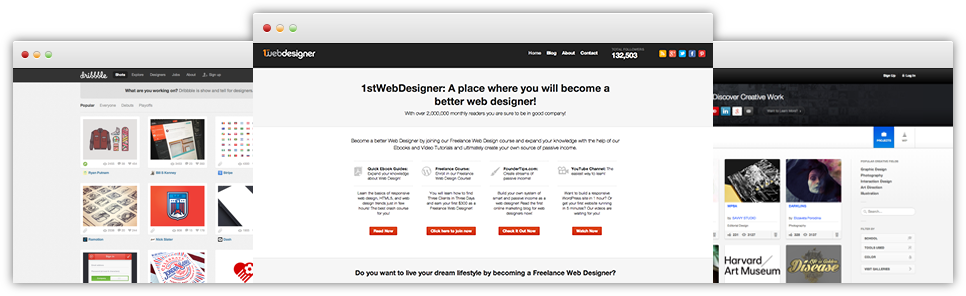
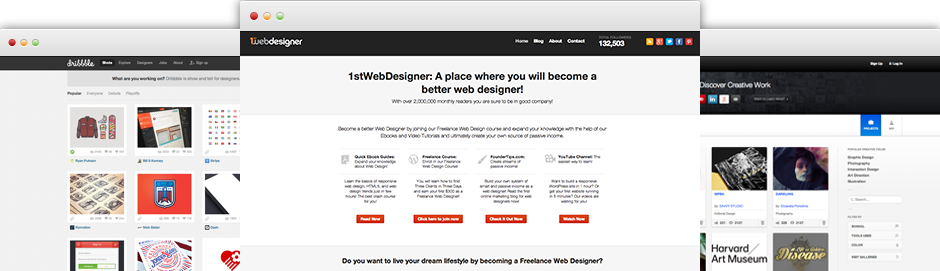
Stylizowanie jumbotronu

diff --git a/css/custom.css b/css/custom.css
@@ -1,11 +1,65 @@
 body {
-   
+   font-family: Helvetica, Arial, sans-serif;
+   font-size: 14px;
 }
+
+@font-face{
+   font-family: 'Museo';
+   src: url('../fonts/museo700.ttf') format('truetype');
+}
+
+h1, h2, h3, h4, h5, h6 {
+   font-family: 'Museo', Rockwell, serif;
+   color: #333;
+}
+
+
+
+.btn{
+   -webkit-border-radius: 3px;
+   -moz-border-radius: 3px;
+   border-radius: 3px;
+   background: #9a9c9f;
+   font-size: 12px;
+   font-weight: bold;
+   color: #fff;
+   text-shadow: none;
+   box-shadow: inset 0 1px 0 rgba(255,255,255,0.2);
+   border: 1px solid rgba(0,0,0,0.2);
+   margin-top: 20px;
+}
+
+.btn:hover,.btn:focus{
+   background:#8e9093;
+   color:#fff;border:1px solid rgba(0,0,0,0.2);
+}
+
+
+
+
+
+
+
+
+/*navbar*/
 
 .jumbotron {
   padding: 0;
   background: #222 url(../img/background-header.jpg) no-repeat 50% top;
+   background-size: cover;
 }
+
+a {
+   color: #fb2f3a;
+}
+
+a:hover, a:focus{
+   color: #eb2f39;
+   text-decoration: none;
+   border-bottom: 1px solid #ddd;
+}
+
+
 
 
 .navbar {
@@ -34,7 +88,8 @@ body {
 
 .navbar-default .navbar-nav > .active > a, .navbar-default .navbar-nav > .active > a:hover, .navbar-default .navbar-nav > .active > a:focus {
    box-shadow: none;
-   background: rgba(0,0,0,0.7)
+   background: rgba(0,0,0,0.7);
+   color: #fff;
 }
 
 .navbar-default .navbar-nav > li > a:hover, .navbar-default .navbar-nav > li > a:focus {
@@ -45,6 +100,48 @@ body {
 
 /*end navbar*/
 
+/*jumbotron*/
+
+div.jumbotron-inner.text-center > h1 {
+   margin-top: 50px;
+   margin-bottom: 20px;
+   color: #fff;
+   font-size: 48px;
+   text-shadow: 0 1px 0 rgba(0,0,0,0.3);
+   
+}
+
+div.jumbotron-inner.text-center > h4 {
+   color: #ccc;
+   text-shadow: 0 1px 0 rgba(0,0,0,0.3);
+   margin-bottom: 30px;
+   
+}
+
+.jumbotron a {
+   color: #fff;
+}
+
+.btn-primary {
+  background: #fb2f3a;
+    border: none;
+    box-shadow: 0 2px 1px rgba(0,0,0,0.3);
+    font-size: 16px;
+    font-weight: bold;
+    text-shadow: none;
+    margin-top: 0;
+}
+
+.small-link {
+   margin-left: 15px;
+    color: #fff;
+    border-bottom: 1px solid #ddd;
+      margin-top: 20px;
+}
 
 
+.jumbotron-inner div img {
+   padding-top: 40px;
+}
 
+/*process*/

diff --git a/index.html b/index.html
@@ -40,7 +40,7 @@
 
 
                 <a href="#" class="btn btn-primary ">Get Started</a>
-                <a href="#" class="btn">Learn More</a>
+                <a href="#" class="small-link">Learn More</a>
                 
                 <div>
                    <img src="img/browser.png" alt="">
